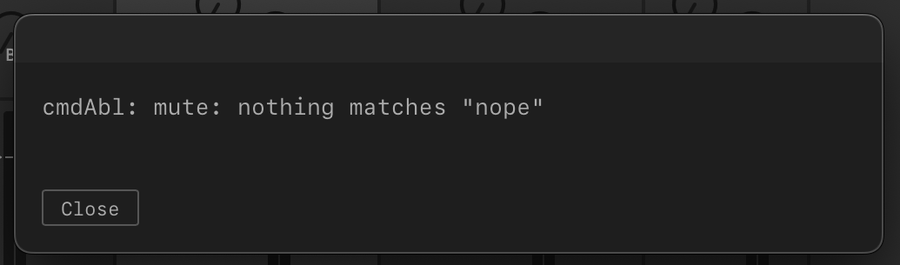
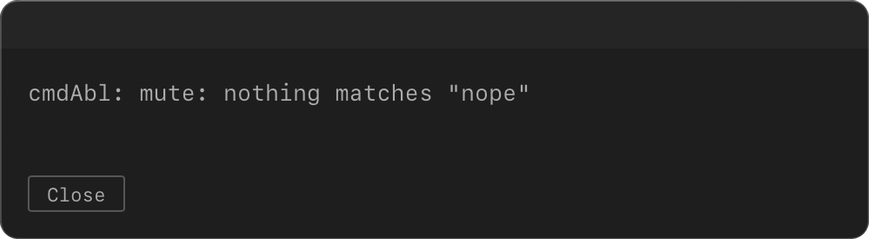
docs(images): trim dialog screenshots to the dialog edge; add scripts/trim-shot.py
find-nested, error, cmdabl-log and tags.gif no longer show Live around the
dialog; corners are transparent.

Changed region(s): [[0.0, 0.0, 1.0, 1.0], [0.0, 0.3515, 0.6214, 0.9079], [0.0, 0.1757, 0.0311, 0.2343]]

diff --git a/scripts/trim-shot.py b/scripts/trim-shot.py
@@ -1,0 +1,153 @@
+#!/usr/bin/env python3
+"""Trim a dialog screenshot (PNG or GIF) to the dialog window's edge.
+
+Finds the dialog's 1 px border, crops to it and makes the rounded corners
+transparent, so the docs stage shows through and nothing of Live is left
+around the dialog.
+
+    python3 scripts/trim-shot.py captures/palette.png docs/assets/images/palette.png
+    python3 scripts/trim-shot.py docs/assets/images/error.png          # in place
+    python3 scripts/trim-shot.py --radius 20 in.gif out.gif
+
+For a GIF the border is found on the first frame and every frame gets the
+same crop and one shared palette (keeps the file small). Needs Pillow (`pip install Pillow`).
+"""
+import argparse
+import sys
+
+from PIL import Image, ImageDraw
+
+SEARCH = 40      # how far from each image edge the border may sit (px)
+FLAT = 4         # how much a pixel may differ and still count as dialog fill
+RUN = 10         # how many flat pixels in a row mark the dialog's inside
+
+
+def lum(px):
+    return px[0] + px[1] + px[2]
+
+
+def edge(line):
+    """Index of the border in a pixel line that runs from outside to inside.
+
+    The border is a bright 1 px line (a local peak) with flat dialog fill right
+    behind it. Slivers of Live outside the dialog are not followed by flat fill.
+    """
+    v = [lum(p) for p in line]
+    for i in range(0, min(SEARCH, len(v) - RUN - 4)):
+        if (i and v[i] < v[i - 1]) or v[i] < v[i + 1]:
+            continue
+        flat = v[i + 3:i + 3 + RUN]
+        if max(flat) - min(flat) > FLAT * 3:
+            continue
+        if v[i] - flat[0] < 20:
+            continue
+        return i
+    return None
+
+
+def vote(found, total):
+    """The outermost index that at least half of the sampled lines agree on."""
+    counts = {}
+    for i in found:
+        counts[i] = counts.get(i, 0) + 1
+    ok = [i for i, c in counts.items() if c * 2 >= total]
+    if ok:
+        return min(ok)
+    return max(counts, key=counts.get) if counts else 0
+
+
+def find_box(frames):
+    """Dialog box (l, t, r, b) from one or more frames: 5 rows and 5 columns
+    over the middle 60 % of each frame vote on every side."""
+    sides = ([], [], [], [])
+    n = 0
+    for im in frames:
+        im = im.convert("RGB")
+        w, h = im.size
+        for k in range(5):
+            y = int(h * (0.2 + 0.6 * k / 4))
+            x = int(w * (0.2 + 0.6 * k / 4))
+            row = [im.getpixel((i, y)) for i in range(w)]
+            col = [im.getpixel((x, j)) for j in range(h)]
+            for side, line in zip(sides, (row, col, row[::-1], col[::-1])):
+                e = edge(line)
+                if e is not None:
+                    side.append(e)
+            n += 1
+    l, t, r, b = (vote(side, n) for side in sides)
+    return l, t, w - r, h - b
+
+
+def corner_mask(size, radius):
+    s = 4
+    big = Image.new("L", (size[0] * s, size[1] * s), 0)
+    ImageDraw.Draw(big).rounded_rectangle(
+        (0, 0, size[0] * s - 1, size[1] * s - 1), radius * s, fill=255)
+    return big.resize(size, Image.LANCZOS)
+
+
+def trim_png(src, dst, radius, box=None):
+    im = Image.open(src).convert("RGBA")
+    box = box or find_box([im])
+    out = im.crop(box)
+    alpha = corner_mask(out.size, radius)
+    out.putalpha(alpha)
+    out.save(dst, optimize=True)
+    return im.size, out.size, box
+
+
+def trim_gif(src, dst, radius, box=None):
+    g = Image.open(src)
+    n = g.n_frames
+    rgba, durations = [], []
+    for i in range(n):
+        g.seek(i)
+        rgba.append(g.convert("RGBA"))
+        durations.append(g.info.get("duration", 100))
+    if box is None:
+        pick = sorted({0, n // 4, n // 2, 3 * n // 4, n - 1})
+        box = find_box([rgba[i] for i in pick])
+    size = (box[2] - box[0], box[3] - box[1])
+    mask = corner_mask(size, radius).point(lambda v: 255 if v >= 128 else 0)  # GIF: 1-bit alpha
+    frames = []
+    for f in rgba:
+        c = f.crop(box).convert("RGB")
+        frames.append(c)
+    # one palette for all frames (a montage of a few of them), so Pillow can
+    # store only the changed area of each frame and the file stays small
+    pick = sorted({0, n // 4, n // 2, 3 * n // 4, n - 1})
+    montage = Image.new("RGB", (size[0], size[1] * len(pick)))
+    for k, i in enumerate(pick):
+        montage.paste(frames[i], (0, size[1] * k))
+    pal = montage.quantize(255, dither=Image.NONE)
+    out = []
+    for c in frames:
+        p = c.quantize(palette=pal, dither=Image.NONE)
+        p.paste(255, mask=mask.point(lambda v: 255 - v))   # index 255 = transparent
+        out.append(p)
+    pl = (pal.getpalette() or [])[:765]
+    for p in out:
+        p.putpalette(pl + [0] * (768 - len(pl)))
+    out[0].save(dst, save_all=True, append_images=out[1:], duration=durations,
+                loop=g.info.get("loop", 0), transparency=255, disposal=1,
+                optimize=True)
+    return g.size, size, box
+
+
+def main():
+    ap = argparse.ArgumentParser(description=__doc__.split("\n")[0])
+    ap.add_argument("src")
+    ap.add_argument("dst", nargs="?", help="default: overwrite src")
+    ap.add_argument("--box", help="l,t,r,b in source pixels; skips border detection")
+    ap.add_argument("--radius", type=int, default=18, help="corner radius in px (default 18)")
+    a = ap.parse_args()
+    dst = a.dst or a.src
+    fn = trim_gif if a.src.lower().endswith(".gif") else trim_png
+    box = tuple(int(v) for v in a.box.split(",")) if a.box else None
+    before, after, box = fn(a.src, dst, a.radius, box)
+    print(f"{a.src}: {before[0]}x{before[1]} -> {after[0]}x{after[1]}, box l,t,r,b = {','.join(map(str, box))}")
+    print("Check the edges of the result before you use it.")
+
+
+if __name__ == "__main__":
+    sys.exit(main())

diff --git a/docs/develop.md b/docs/develop.md
@@ -104,6 +104,19 @@ notification. Turn on Do Not Disturb first, and check every frame before you use
 `delayMs`, a pause after each typed character, so typing in a recording reads well. Before a take, reset the Set the
 way it was.
 
+**Dialog screenshots.** The docs site shows every image on a lighter "stage". A dialog image must therefore end
+exactly at the dialog window's edge, with nothing of Live around it and transparent rounded corners. Run each capture
+of a dialog through `scripts/trim-shot.py` (needs Pillow):
+
+```sh
+python3 scripts/trim-shot.py captures/palette.png docs/assets/images/palette.png
+```
+
+It finds the dialog's border, crops to it and makes the corners transparent, and prints the box it used. For a GIF it
+crops every frame the same way and gives all frames one shared palette, which keeps the file small. Check the edges
+of the result. If detection is wrong (a scrollbar at the edge can confuse it), give the box yourself with
+`--box l,t,r,b`. Do not use it on images of Live itself or on recordings of Live's window.
+
 What needs eyes or hands stays manual: Cmd+Z and moving a control.
 
 ## Build the docs site
